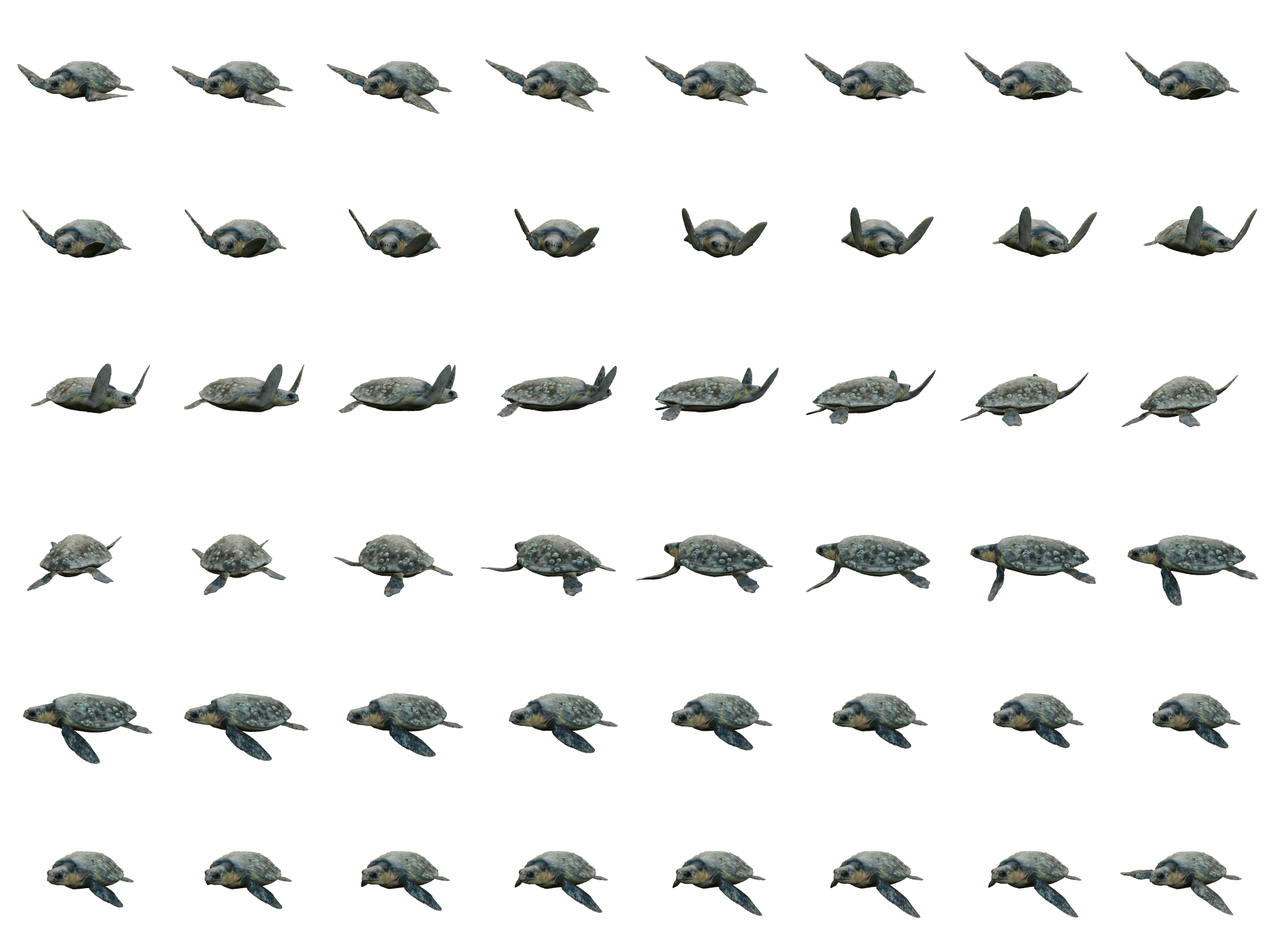
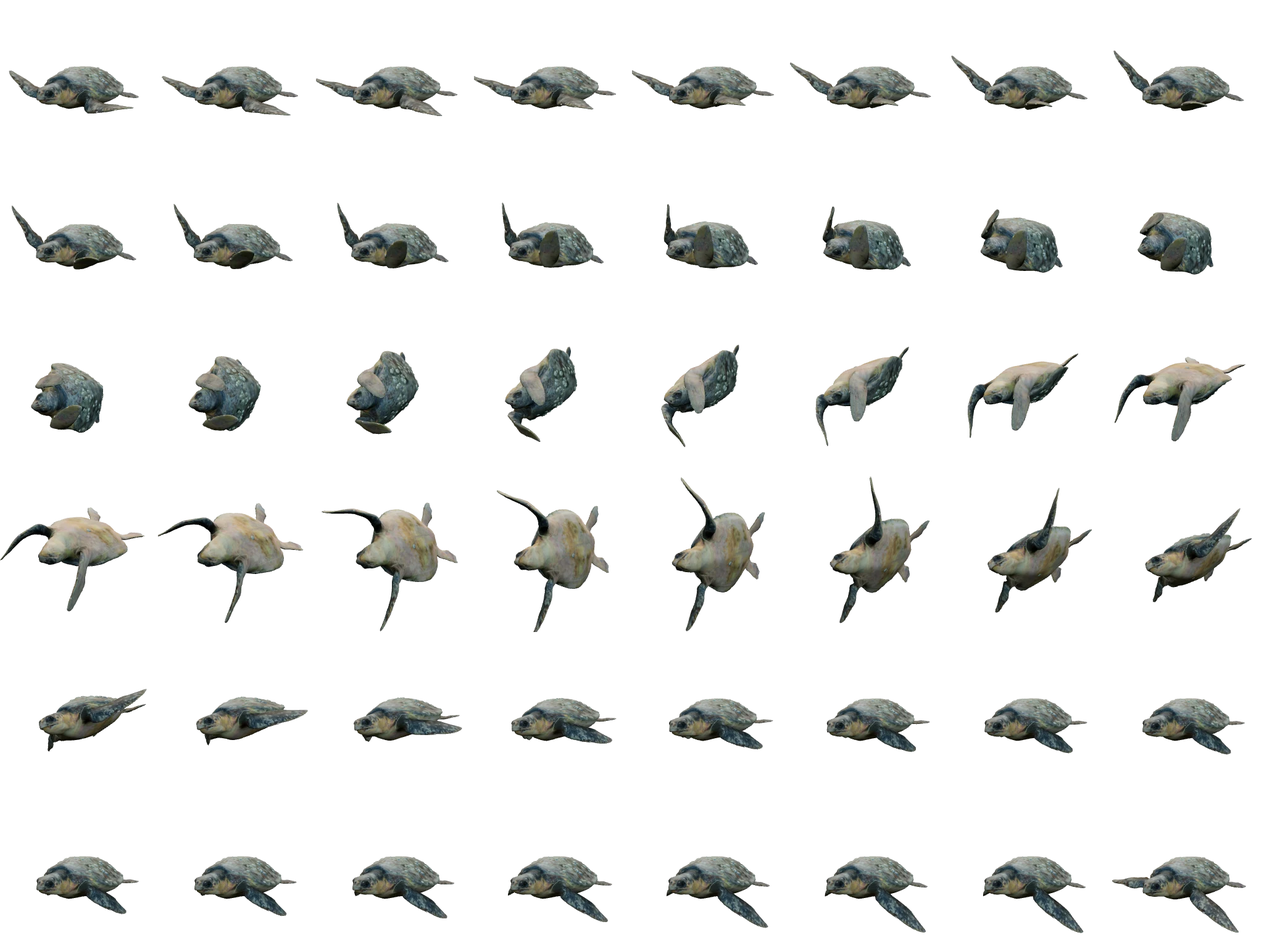
ud game

diff --git a/src/free-roam.js b/src/free-roam.js
@@ -1,3 +1,6 @@
+import {TURTLE_ACTIVITIES} from './turtle-activities.js';
+import {createOceanPlay} from './ocean-play.js';
+import {clampDepth} from './ocean-play-state.js';
 import {createJoystick} from './joystick.js';
 import {TURTLE_TURN_DURATION} from './turtle-turn.js';
 import * as T from 'three';
@@ -8,9 +11,10 @@ import {createTrexActions,ACTIONS} from './creatures/actions.js';
 import {loadMarine} from './marine.js';
 export function createFreeRoam(host){
  host.innerHTML='<div class="roam-canvas"></div><div class="roam-joystick"></div><div class="roam-actions"><button class="roam-action" aria-label="Thực hiện hành động"><span class="roam-action-icon" aria-hidden="true"></span><small></small><kbd>1</kbd></button></div><div class="roam-status" role="status">Đang chuẩn bị vùng khám phá…</div>';
- const joystick=createJoystick(host.querySelector('.roam-joystick')),actionButton=host.querySelector('.roam-action');let turnTime=-1;
- function fireAction(){if(!active)return;if(id==='trex')jump();else if(turnTime<0){turnTime=0;actions.play('turn360');}}
- actionButton.onclick=fireAction;
+ const joystick=createJoystick(host.querySelector('.roam-joystick')),actionButton=host.querySelector('.roam-action');let turnTime=-1,activity='',quest=null,depthStart=2,depthTarget=2;const actionKeys=['turn360','boost','dive','rise','eat'];
+ function fireAction(key='turn360'){if(!active)return;if(id==='trex'){jump();return;}if(turnTime>=0)return;activity=key;turnTime=0;depthStart=actor.position.y;depthTarget=clampDepth(depthStart+(key==='rise'?2:key==='dive'?-2:0));actions.play(key);if(key==='eat'&&quest?.canEat(actor.position)){const food=quest.foodPosition;actor.rotation.y=Math.atan2(food.x-actor.position.x,food.z-actor.position.z)+Math.PI;}}
+ actionButton.onclick=()=>fireAction();
+ function buttons(sea){host.querySelectorAll('.extra-action').forEach(b=>b.remove());actionButton.dataset.roamAction=sea?'turn360':'jump';if(!sea)return;const icons={boost:'»',dive:'↓',rise:'↑',eat:'🐚'};for(const [i,key]of actionKeys.entries()){if(!i)continue;const b=document.createElement('button');b.className='roam-action extra-action';b.dataset.roamAction=key;b.setAttribute('aria-label',TURTLE_ACTIVITIES[key].label);b.innerHTML=`<span class="roam-action-icon" aria-hidden="true">${icons[key]}</span><small>${TURTLE_ACTIVITIES[key].label}</small><kbd>${i+1}</kbd>`;b.onclick=()=>fireAction(key);host.querySelector('.roam-actions').append(b);}}
 
  const mount=host.querySelector('.roam-canvas'),status=host.querySelector('.roam-status');
  const renderer=new T.WebGLRenderer({antialias:true});renderer.setPixelRatio(Math.min(devicePixelRatio,1.5));renderer.toneMapping=T.ACESFilmicToneMapping;renderer.toneMappingExposure=1.1;mount.append(renderer.domElement);
@@ -28,19 +32,19 @@ export function createFreeRoam(host){
  scene.add(new T.HemisphereLight(0xe4fffa,0x435b38,2.6));const sun=new T.DirectionalLight(0xffedce,3);sun.position.set(15,30,12);scene.add(sun);
  function clear(){joystick.reset();keys.clear();pointers.clear();velocity.set(0,0);host.querySelectorAll('[data-direction]').forEach(b=>b.removeAttribute('data-held'));}
  const codes={KeyW:'up',ArrowUp:'up',KeyS:'down',ArrowDown:'down',KeyA:'left',ArrowLeft:'left',KeyD:'right',ArrowRight:'right'};
- function keydown(e){if(!active||e.target.closest?.('input,textarea,select'))return;if(e.code==='Digit1'||e.code==='Numpad1'){e.preventDefault();if(!e.repeat)fireAction();return;}if(!codes[e.code])return;e.preventDefault();keys.add(e.code);}
+ function keydown(e){if(!active||e.target.closest?.('input,textarea,select'))return;if(/^(Digit|Numpad)[1-5]$/.test(e.code)){e.preventDefault();const slot=Number(e.code.slice(-1))-1;if(!e.repeat&&(id==='loggerhead'||slot===0))fireAction(actionKeys[slot]);return;}if(!codes[e.code])return;e.preventDefault();keys.add(e.code);}
  function keyup(e){keys.delete(e.code);}
  addEventListener('keydown',keydown);addEventListener('keyup',keyup);addEventListener('blur',clear);const visibility=()=>{if(document.hidden)clear();};document.addEventListener('visibilitychange',visibility);
  for(const button of host.querySelectorAll('[data-direction]')){button.onpointerdown=e=>{e.preventDefault();button.setPointerCapture(e.pointerId);pointers.set(e.pointerId,button.dataset.direction);button.dataset.held='true';};const release=e=>{pointers.delete(e.pointerId);button.removeAttribute('data-held');};button.onpointerup=release;button.onpointercancel=release;button.onlostpointercapture=release;}
  function disposeModel(model){const geometries=new Set(),materials=new Set(),textures=new Set();model.traverse(n=>{if(n.geometry)geometries.add(n.geometry);for(const m of (Array.isArray(n.material)?n.material:[n.material]).filter(Boolean)){materials.add(m);Object.values(m).forEach(v=>{if(v?.isTexture)textures.add(v);});}});geometries.forEach(g=>g.dispose());materials.forEach(m=>m.dispose());textures.forEach(t=>t.dispose());}
  function disposeAnimal(){actions?.dispose();actions=null;if(animal){actor.remove(animal);disposeModel(animal);animal=null;}}
 
- async function load(next){const token=++serial;clear();active=false;status.hidden=false;status.textContent='Đang chuẩn bị vùng khám phá…';restorePose();disposeAnimal();actor.position.set(0,0,0);actor.rotation.set(0,0,0);actor.scale.setScalar(1);actor.updateMatrixWorld(true);jumpHeight=jumpVelocity=0;controls.enabled=false;world?.dispose();if(world)scene.remove(world.group);const sea=next==='loggerhead';world=createRoamWorld(sea);scene.add(world.group);scene.background=new T.Color(sea?0x176a86:0xa5cbd0);scene.fog=new T.Fog(sea?0x176a86:0xa5cbd0,sea?22:48,sea?88:135);id=next;turnTime=-1;actionButton.querySelector('.roam-action-icon').textContent=sea?'↻':'↟';actionButton.querySelector('small').textContent=sea?'Xoay một vòng':'Nhảy';actionButton.setAttribute('aria-label',sea?'Xoay một vòng':'Nhảy');
+ async function load(next){const token=++serial;clear();active=false;status.hidden=false;status.textContent='Đang chuẩn bị vùng khám phá…';restorePose();disposeAnimal();quest?.dispose();quest=null;actor.position.set(0,0,0);actor.rotation.set(0,0,0);actor.scale.setScalar(1);actor.updateMatrixWorld(true);jumpHeight=jumpVelocity=0;controls.enabled=false;world?.dispose();if(world)scene.remove(world.group);const sea=next==='loggerhead';world=createRoamWorld(sea);scene.add(world.group);scene.background=new T.Color(sea?0x176a86:0xa5cbd0);scene.fog=new T.Fog(sea?0x176a86:0xa5cbd0,sea?22:48,sea?88:135);id=next;turnTime=-1;activity='';buttons(sea);if(sea)quest=createOceanPlay(scene,host,camera);actionButton.querySelector('.roam-action-icon').innerHTML=sea?'<svg class="turtle-action-icon" viewBox="0 0 64 64" aria-hidden="true"><g fill="#ffd66b" stroke="#9c6826" stroke-width="1.5" stroke-linejoin="round"><path d="M22 23C10 13 3 18 9 27L21 33M42 23C54 13 61 18 55 27L43 33M23 43C12 43 10 52 16 52L26 47M41 43C52 43 54 52 48 52L38 47M29 48L32 57L35 48"/><ellipse cx="32" cy="14" rx="8" ry="10"/><ellipse cx="32" cy="34" rx="17" ry="20" fill="#ebba45"/><path d="M32 21L41 27V39L32 46L23 39V27Z" fill="#ffe18a"/><path d="M23 27L18 24M41 27L46 24M23 39L18 43M41 39L46 43M32 21V15M32 46V53" fill="none"/><circle cx="29" cy="10" r="1" fill="#44361c"/><circle cx="35" cy="10" r="1" fill="#44361c"/></g></svg>':'↟';actionButton.querySelector('small').textContent=sea?'Lộn một vòng':'Nhảy';actionButton.setAttribute('aria-label',sea?'Lộn một vòng':'Nhảy');
  let result;
  try{if(sea)result=await loadMarine(next);else{const response=await fetch('/assets/trex.json');if(!response.ok)throw Error('model');result={model:await createTrexModel({data:await response.json(),diffuse:'/assets/diffuse.jpeg',normal:'/assets/normal.jpeg'})};}
  if(token!==serial){result.createActions?.().dispose();disposeModel(result.model);return;}
  animal=result.model;actor.add(animal);actions=sea?result.createActions():createTrexActions(animal,ACTIONS);actions.play(sea?'clip0':'idle');restorePose();actions.setSpeed(sea?.35:1);actions.update(.001);animal.updateMatrixWorld(true);
- const box=new T.Box3().setFromObject(animal,true),size=box.getSize(new T.Vector3()),scale=(sea?4.5:8)/Math.max(size.x,size.y,size.z);actor.scale.setScalar(scale);actor.position.set(0,sea?2:-box.min.y*scale,0);actor.rotation.set(0,sea?0:Math.PI,0);moving=false;offset.set(0,sea?5:8,sea?11:15);target.copy(actor.position).add(new T.Vector3(0,sea?1:2.5,0));camera.position.copy(target).add(offset);camera.lookAt(target);controls.target.copy(target);controls.enabled=true;controls.update();followPosition.copy(actor.position);if(!sea)groundAnimal();status.hidden=true;active=true;resize();
+ const box=new T.Box3().setFromObject(animal,true),size=box.getSize(new T.Vector3()),scale=(sea?4.5:8)/Math.max(size.x,size.y,size.z);actor.scale.setScalar(scale);actor.position.set(0,sea?2:-box.min.y*scale,0);actor.rotation.set(0,sea?0:Math.PI,0);depthStart=depthTarget=2;moving=false;offset.set(0,sea?5:8,sea?11:15);target.copy(actor.position).add(new T.Vector3(0,sea?1:2.5,0));camera.position.copy(target).add(offset);camera.lookAt(target);controls.target.copy(target);controls.enabled=true;controls.update();followPosition.copy(actor.position);if(!sea)groundAnimal();status.hidden=true;active=true;resize();
  }catch(e){if(token!==serial)return;status.innerHTML='<button class="round" aria-label="Thử tải lại">↻</button>';status.querySelector('button').onclick=()=>load(next);console.error(e);}}
  function resize(){const w=mount.clientWidth,h=mount.clientHeight;if(!w||!h)return;renderer.setSize(w,h);camera.aspect=w/h;camera.updateProjectionMatrix();}const observer=new ResizeObserver(resize);observer.observe(mount);
  let last=performance.now();function frame(now){frameId=requestAnimationFrame(frame);const dt=Math.min((now-last)/1000,.04);last=now;if(!active||document.hidden||document.body.classList.contains('orientation-blocked')){clear();return;}
@@ -48,11 +52,14 @@ export function createFreeRoam(host){
  restorePose();
  if(walking!==moving){moving=walking;if(!sea)actions.play(moving?'walk':'idle');}
  actions.setSpeed(sea?(turnTime>=0?1:moving?1:.3):moving?Math.max(.3,velocity.length()):1);actions.update(dt);
- if(sea&&turnTime>=0){turnTime+=dt;if(turnTime>=TURTLE_TURN_DURATION){actions.play('clip0');turnTime=-1;}}actionButton.disabled=id==='trex'?jumpHeight>0:turnTime>=0;
- if(walking){const desired=Math.atan2(velocity.x,velocity.y)+(sea?Math.PI:0),delta=Math.atan2(Math.sin(desired-actor.rotation.y),Math.cos(desired-actor.rotation.y));actor.rotation.y+=delta*(1-Math.exp(-dt*8));moveWithinMap(actor.position,velocity.x*dt*(sea?7.5:6.375),velocity.y*dt*(sea?7.5:6.375),world.obstacles,sea?1.4:2);}
+ if(sea&&turnTime>=0){turnTime+=dt;const duration=activity==='turn360'?TURTLE_TURN_DURATION:TURTLE_ACTIVITIES[activity].duration;if(activity==='dive'||activity==='rise'){const p=Math.min(1,turnTime/duration);actor.position.y=depthStart+(depthTarget-depthStart)*p*p*(3-2*p);}if(turnTime>=duration){actions.play('clip0');turnTime=-1;activity='';}}
+ host.querySelectorAll('.roam-action').forEach(b=>{b.disabled=sea?turnTime>=0:jumpHeight>0;b.classList.toggle('playing',b.dataset.roamAction===activity);});
+ if((walking||activity==='boost')&&activity!=='eat'){const vx=walking?velocity.x:-Math.sin(actor.rotation.y),vz=walking?velocity.y:-Math.cos(actor.rotation.y);const desired=Math.atan2(vx,vz)+(sea?Math.PI:0),delta=Math.atan2(Math.sin(desired-actor.rotation.y),Math.cos(desired-actor.rotation.y));actor.rotation.y+=delta*(1-Math.exp(-dt*8));const boost=activity==='boost'?1+.6*Math.sin(Math.PI*Math.min(1,turnTime/3)):1;moveWithinMap(actor.position,vx*dt*(sea?7.5:6.375)*boost,vz*dt*(sea?7.5:6.375)*boost,world.obstacles,sea?1.4:2);}
+ quest?.update(dt,actor.position,activity==='boost',activity==='eat'&&turnTime>1.1);
+
  if(!sea){if(jumpVelocity!==0||jumpHeight>0){jumpHeight+=jumpVelocity*dt-7*dt*dt;jumpVelocity-=14*dt;if(jumpHeight<=0){jumpHeight=0;jumpVelocity=0;}}if(jumpHeight>0)tuckLegs();groundAnimal();}
  shadow.material.opacity=1/(1+jumpHeight*.4);
- shadow.position.set(actor.position.x,sea?-2.97:.03,actor.position.z);shadow.scale.set(sea?.65:1,sea?.65:1,1);followDelta.set(actor.position.x-followPosition.x,0,actor.position.z-followPosition.z);camera.position.add(followDelta);controls.target.add(followDelta);followPosition.copy(actor.position);controls.update();renderer.render(scene,camera);
+ shadow.position.set(actor.position.x,sea?-2.97:.03,actor.position.z);shadow.scale.set(sea?.65:1,sea?.65:1,1);followDelta.set(actor.position.x-followPosition.x,sea?actor.position.y-followPosition.y:0,actor.position.z-followPosition.z);camera.position.add(followDelta);controls.target.add(followDelta);followPosition.copy(actor.position);controls.update();renderer.render(scene,camera);
  }frameId=requestAnimationFrame(frame);
- return {load,setActive(value){active=value&&!!animal;controls.enabled=active;clear();if(!value){serial++;status.hidden=true;}},get state(){return {id,active,moving,turnTime,action:actions?.state.id,jumpHeight,groundY:animal?new T.Box3().setFromObject(animal,true).min.y:groundY,position:actor.position.toArray(),camera:camera.position.toArray(),obstacles:world?.obstacles};},dispose(){serial++;cancelAnimationFrame(frameId);controls.dispose();observer.disconnect();clear();disposeAnimal();world?.dispose();shadow.geometry.dispose();shadow.material.dispose();shadowTexture.dispose();renderer.dispose();removeEventListener('keydown',keydown);removeEventListener('keyup',keyup);removeEventListener('blur',clear);document.removeEventListener('visibilitychange',visibility);}};
+ return {load,setActive(value){active=value&&!!animal;controls.enabled=active;clear();if(!value){serial++;status.hidden=true;}},get state(){return {id,active,moving,turnTime,activity,quest:quest?.state,action:actions?.state.id,jumpHeight,groundY:animal?new T.Box3().setFromObject(animal,true).min.y:groundY,position:actor.position.toArray(),camera:camera.position.toArray(),obstacles:world?.obstacles};},dispose(){serial++;cancelAnimationFrame(frameId);controls.dispose();observer.disconnect();clear();disposeAnimal();quest?.dispose();world?.dispose();shadow.geometry.dispose();shadow.material.dispose();shadowTexture.dispose();renderer.dispose();removeEventListener('keydown',keydown);removeEventListener('keyup',keyup);removeEventListener('blur',clear);document.removeEventListener('visibilitychange',visibility);}};
 }

diff --git a/src/ocean-play.js b/src/ocean-play.js
@@ -1,0 +1,14 @@
+import * as T from 'three';
+import {createOceanProgress,OCEAN_GOALS} from './ocean-play-state.js';
+export function createOceanPlay(scene,host,camera){
+ const group=new T.Group();scene.add(group);const progress=createOceanProgress(),geometries=[],materials=[];
+ const panel=document.createElement('div');panel.className='ocean-goals';panel.innerHTML='<span class="goal-step" aria-label="Vòng bong bóng">◯ ◯ ◯</span><span class="goal-step" aria-label="Thức ăn">🐚</span><span class="goal-step" aria-label="Khám phá"><svg width="22" height="22" viewBox="0 0 24 24" aria-hidden="true"><path fill="currentColor" d="M2 22V11a10 10 0 0 1 20 0v11h-5V11a5 5 0 0 0-10 0v11Z"/></svg></span><button class="ocean-replay" aria-label="Chơi lại" hidden>↻</button><span class="goal-direction" aria-hidden="true"></span>';host.append(panel);
+ let audio=null,soundEnabled=true;const sound=document.createElement('button');sound.className='round ocean-sound';sound.setAttribute('aria-label','Tắt âm thanh trò chơi');sound.textContent='♪';host.append(sound);sound.onclick=()=>{soundEnabled=!soundEnabled;sound.setAttribute('aria-label',soundEnabled?'Tắt âm thanh trò chơi':'Bật âm thanh trò chơi');sound.setAttribute('aria-pressed',String(!soundEnabled));sound.textContent=soundEnabled?'♪':'♩';};
+ function chime(){if(!soundEnabled)return;try{const C=window.AudioContext||window.webkitAudioContext;audio??=new C();audio.resume().catch(()=>{});for(let i=0;i<3;i++){const oscillator=audio.createOscillator(),gain=audio.createGain(),start=audio.currentTime+i*.10;oscillator.type='sine';oscillator.frequency.value=[523,659,784][i];gain.gain.setValueAtTime(0,start);gain.gain.linearRampToValueAtTime(.06,start+.015);gain.gain.exponentialRampToValueAtTime(.001,start+.22);oscillator.connect(gain).connect(audio.destination);oscillator.start(start);oscillator.stop(start+.25);}}catch{}}
+ function mesh(geometry,color){geometries.push(geometry);const material=new T.MeshStandardMaterial({color,emissive:color,emissiveIntensity:.25,transparent:true,opacity:.85,roughness:.4});materials.push(material);return new T.Mesh(geometry,material);}
+ const markers=OCEAN_GOALS.map((goal,i)=>{const g=new T.Group();g.position.set(goal.position[0],goal.position[1]+1.6,goal.position[2]);group.add(g);if(goal.kind==='ring'){const ring=mesh(new T.TorusGeometry(2.6,.1,8,40),0x8cf6ed);g.add(ring);for(let n=0;n<10;n++){const bubble=mesh(new T.SphereGeometry(.15,6,4),0xcbfff8);bubble.position.set(Math.cos(n*Math.PI/5)*2.6,Math.sin(n*Math.PI/5)*2.6,0);g.add(bubble);}}else if(goal.kind==='food'){const shell=mesh(new T.SphereGeometry(.55,10,6),0xffc47b);shell.scale.set(1,.45,.9);g.add(shell);const halo=mesh(new T.TorusGeometry(.9,.045,6,24),0xffe8ac);halo.rotation.x=Math.PI/2;g.add(halo);}else{const gem=mesh(new T.OctahedronGeometry(.75),0xffe495);g.add(gem);}return g;});
+ const trail=[];for(let i=0;i<24;i++){const bubble=mesh(new T.SphereGeometry(.08+(i%3)*.025,5,4),0xb6ffff);bubble.visible=false;group.add(bubble);trail.push({mesh:bubble,life:0});}let spawn=0,time=0,celebrate=0;
+ function updatePanel(position){const n=progress.index,steps=panel.querySelectorAll('.goal-step');steps[0].textContent=[0,1,2].map(i=>i<n?'●':'◯').join(' ');steps[0].classList.toggle('done',n>=3);steps[1].classList.toggle('done',n>=4);steps[2].classList.toggle('done',n>=5);panel.querySelector('.ocean-replay').hidden=!progress.complete;const goal=progress.target;const dir=panel.querySelector('.goal-direction');if(goal){const dy=goal.position[1]-position.y;dir.textContent=Math.abs(dy)>1.3?(dy>0?'↑':'↓'):'➤';dir.style.transform=Math.abs(dy)>1.3?'none':`rotate(${Math.atan2(goal.position[2]-position.z,goal.position[0]-position.x)+Math.atan2(camera.position.x-position.x,camera.position.z-position.z)}rad)`;dir.title=Math.abs(dy)>1.3?(dy>0?'Nổi lên':'Lặn xuống'):'Hướng tới điểm tiếp theo';}else{dir.textContent='★';dir.style.transform='none';}}
+ panel.querySelector('.ocean-replay').onclick=()=>{progress.restart();celebrate=0;};
+ return {get state(){return {index:progress.index,round:progress.round,complete:progress.complete,target:progress.target};},canEat(position){const g=OCEAN_GOALS[3];return progress.index===3&&Math.hypot(position.x-g.position[0],position.z-g.position[2])<3&&Math.abs(position.y-g.position[1])<1.3;},foodPosition:new T.Vector3(...OCEAN_GOALS[3].position),update(dt,position,boost=false,eating=false){time+=dt;if(progress.advance(position,eating)){chime();celebrate=1.2;}celebrate=Math.max(0,celebrate-dt);markers.forEach((g,i)=>{g.visible=i>=progress.index;const active=i===progress.index;g.children.forEach(m=>{m.material.opacity=active?.95:.22;m.material.emissiveIntensity=active?.65:.1;});if(i>=3)g.rotation.y+=dt*.6;g.scale.setScalar(active?1+Math.sin(time*3)*.035:1);});panel.classList.toggle('celebrate',celebrate>0);updatePanel(position);if(boost){spawn+=dt;while(spawn>.065){spawn-=.065;const particle=trail.find(p=>p.life<=0);if(particle){particle.life=.9;particle.mesh.visible=true;particle.mesh.position.copy(position).add(new T.Vector3((Math.random()-.5)*.6,1.5,0));}}}for(const p of trail)if(p.life>0){p.life-=dt;p.mesh.position.y+=dt*.5;p.mesh.material.opacity=Math.max(0,p.life);p.mesh.visible=p.life>0;}},dispose(){group.removeFromParent();geometries.forEach(g=>g.dispose());materials.forEach(m=>m.dispose());panel.remove();sound.remove();audio?.close().catch(()=>{});}};
+}

diff --git a/src/turtle-turn.js b/src/turtle-turn.js
@@ -4,17 +4,29 @@ const smooth=x=>{x=Math.max(0,Math.min(1,x));return x*x*x*(x*(x*6-15)+10);};
 const pulse=(t,a,b)=>t<=a||t>=b?0:Math.sin(Math.PI*(t-a)/(b-a))**2;
 export function createTurtleTurnActions(base,root){
  const bones={};root.traverse(n=>{if(n.isBone)bones[n.name]=n;});
- let turning=false,time=0,pose=[],origin=null,entry=[];
+ let turning=false,time=0,pose=[],origin=null,originPosition=null,entry=[];
+ const pivot=new Vector3(),shift=new Vector3();
  const axis=new Vector3(),parentQ=new Quaternion(),rootQ=new Quaternion(),q=new Quaternion();
- function restore(){for(const [bone,rotation]of pose)bone.quaternion.copy(rotation);pose=[];if(origin){root.quaternion.copy(origin);origin=null;}}
+ function restore(){for(const [bone,rotation]of pose)bone.quaternion.copy(rotation);pose=[];if(origin){root.quaternion.copy(origin);root.position.copy(originPosition);origin=null;}}
  function rotate(name,x,y,z){const bone=bones[name];if(!bone)return;pose.push([bone,bone.quaternion.clone()]);const angle=Math.hypot(x,y,z);if(!angle)return;root.getWorldQuaternion(rootQ);bone.parent.getWorldQuaternion(parentQ);axis.set(x,y,z).divideScalar(angle).applyQuaternion(rootQ).applyQuaternion(parentQ.invert());q.setFromAxisAngle(axis,angle);bone.quaternion.premultiply(q);bone.updateWorldMatrix(false,true);}
  function apply(t){
-  origin=root.quaternion.clone();const envelope=smooth(t/.45)*(1-smooth((t-3.35)/.85)),drive=pulse(t,.45,1.55)+pulse(t,1.65,2.85),brake=pulse(t,3,3.9);
-  root.rotateY(2*Math.PI*smooth((t-.4)/3.35));root.rotateZ(.11*envelope);root.updateWorldMatrix(true,true);
-  rotate('head002',-.035*envelope,.24*pulse(t,0,3.6),0);rotate('head001',0,.09*pulse(t,.15,3.65),0);
-  rotate('flipper-left001',0,-.22*drive,.24*drive-.10*brake);rotate('flipper-left002',0,.09*drive,.10*pulse(t,.65,3));
-  rotate('flipper-right001',0,.12*drive,-.12*drive+.18*brake);rotate('flipper-right002',0,-.05*drive,-.08*pulse(t,.85,3.2));
-  rotate('hind-left001',0,.16*envelope,.09*brake);rotate('hind-right001',0,.13*envelope,-.12*brake);rotate('tail001',0,.10*pulse(t,.6,3.85),0);
+  origin=root.quaternion.clone();originPosition=root.position.clone();root.updateWorldMatrix(true,true);
+  // Roll around the shell center, not the root below the swimming model.
+  bones.Main.getWorldPosition(pivot);root.worldToLocal(pivot);
+  const prepare=pulse(t,0,.8),drive=pulse(t,.3,1.25),tuck=smooth((t-.75)/.55)*(1-smooth((t-2.85)/.55)),brake=pulse(t,2.9,4.15);
+  root.rotateZ(-.09*prepare+2*Math.PI*smooth((t-.5)/3.15));
+  shift.copy(pivot).multiply(root.scale).applyQuaternion(origin);root.position.add(shift);
+  shift.copy(pivot).multiply(root.scale).applyQuaternion(root.quaternion);root.position.sub(shift);root.updateWorldMatrix(true,true);
+  // Asymmetric front-flipper stroke initiates roll; tuck reduces drag,
+  // rear flippers counter-steer and both fronts open to brake the roll.
+  rotate('head002',.09*tuck,0,-.06*drive+.04*brake);rotate('head001',-.035*tuck,0,-.025*drive);
+  rotate('flipper-left001',0,-.15*tuck,.30*drive-.20*tuck-.17*brake);
+  rotate('flipper-right001',0,.15*tuck,.23*drive+.20*tuck+.17*brake);
+  rotate('flipper-left002',0,.06*tuck,-.13*tuck+.08*brake);
+  rotate('flipper-right002',0,-.06*tuck,.13*tuck-.08*brake);
+  rotate('hind-left001',0,.05*tuck,.12*drive-.13*brake);
+  rotate('hind-right001',0,-.05*tuck,.08*drive-.10*brake);
+  rotate('tail001',0,0,-.07*pulse(t,.65,3.7));
  }
  return {...base,play(key){restore();turning=key==='turn360';entry=turning?Object.values(bones).map(b=>[b,b.quaternion.clone()]):[];time=0;return base.play(turning?'clip0':key);},get state(){return {...base.state,id:turning?'turn360':base.state.id};},update(dt){if(base.state.paused)return;restore();base.update(turning?dt*(3.5/TURTLE_TURN_DURATION):dt);if(turning){time=(time+Math.min(dt,.05)*base.state.speed)%TURTLE_TURN_DURATION;if(entry.length){const blend=smooth(time/.35);for(const [bone,rotation]of entry)bone.quaternion.slerpQuaternions(rotation,bone.quaternion.clone(),blend);if(blend===1)entry=[];}apply(time);}},get progress(){return turning?time/TURTLE_TURN_DURATION:base.progress;},dispose(){restore();base.dispose();}};
 }

diff --git a/src/turtle-activities.js b/src/turtle-activities.js
@@ -1,0 +1,25 @@
+import {Quaternion,Vector3} from 'three';
+export const TURTLE_ACTIVITIES={boost:{duration:3,label:'Tăng tốc'},dive:{duration:1.6,label:'Lặn'},rise:{duration:1.6,label:'Nổi'},eat:{duration:2.4,label:'Ăn'}};
+const smooth=x=>{x=Math.max(0,Math.min(1,x));return x*x*(3-2*x);};
+export function createTurtleActivities(base,root){
+ const bones={};root.traverse(n=>{if(n.isBone)bones[n.name]=n;});let key='',time=0,pose=[],orientation=null,position=null,entry=[];
+ const axis=new Vector3(),parentQ=new Quaternion(),rootQ=new Quaternion(),delta=new Quaternion(),pivot=new Vector3(),shift=new Vector3();
+ function restore(){pose.forEach(([b,q])=>b.quaternion.copy(q));pose=[];if(orientation){root.quaternion.copy(orientation);root.position.copy(position);orientation=null;}}
+ function rotate(name,x,y,z){const b=bones[name];if(!b)return;pose.push([b,b.quaternion.clone()]);const angle=Math.hypot(x,y,z);if(!angle)return;root.getWorldQuaternion(rootQ);b.parent.getWorldQuaternion(parentQ);axis.set(x,y,z).divideScalar(angle).applyQuaternion(rootQ).applyQuaternion(parentQ.invert());b.quaternion.premultiply(delta.setFromAxisAngle(axis,angle));b.updateWorldMatrix(false,true);}
+ function apply(){const p=time/TURTLE_ACTIVITIES[key].duration,e=smooth(p/.2)*(1-smooth((p-.72)/.28));orientation=root.quaternion.clone();position=root.position.clone();root.updateWorldMatrix(true,true);bones.Main.getWorldPosition(pivot);root.worldToLocal(pivot);
+  const pitch=key==='dive'?-.32*e:key==='rise'?.32*e:key==='boost'?-.055*e:-.1*e;root.rotateX(pitch);
+  shift.copy(pivot).multiply(root.scale).applyQuaternion(orientation);root.position.add(shift);shift.copy(pivot).multiply(root.scale).applyQuaternion(root.quaternion);root.position.sub(shift);root.updateWorldMatrix(true,true);
+  if(key==='eat'){
+   const reach=smooth(p/.38)*(1-smooth((p-.65)/.35));const peck=Math.sin(Math.PI*Math.max(0,Math.min(1,(p-.35)/.32)))*e;
+   rotate('Spine001',-.07*reach,0,0);rotate('head002',-.18*reach+.10*peck,0,0);rotate('head001',-.10*reach+.13*peck,0,0);
+   rotate('flipper-left001',0,.09*e,-.12*e);rotate('flipper-right001',0,-.09*e,.12*e);rotate('hind-left001',.07*e,0,0);rotate('hind-right001',.07*e,0,0);
+  }else{
+   const thrust=key==='boost'?.18: .10;
+   rotate('head002',-pitch*.35,0,0);rotate('head001',-pitch*.15,0,0);
+   rotate('flipper-left001',-.05*e,-thrust*e,-.12*e);rotate('flipper-right001',-.05*e,thrust*e,.12*e);
+   rotate('flipper-left002',0,.06*e,-.06*e);rotate('flipper-right002',0,-.06*e,.06*e);
+   rotate('hind-left001',pitch*.35,0,-.06*e);rotate('hind-right001',pitch*.35,0,.06*e);rotate('tail001',pitch*.15,0,0);
+  }
+ }
+ return {...base,get state(){return {...base.state,id:key||base.state.id};},play(next){restore();key=TURTLE_ACTIVITIES[next]?next:'';entry=key?Object.values(bones).map(b=>[b,b.quaternion.clone()]):[];time=0;return base.play(key?'clip0':next);},update(dt){if(base.state.paused)return;restore();const duration=TURTLE_ACTIVITIES[key]?.duration;const phase=duration?time/duration:0;const envelope=smooth(phase/.2)*(1-smooth((phase-.72)/.28));base.update(dt*(key==='boost'?1+1.3*envelope:key==='eat'?.4:1));if(key){time=(time+Math.min(dt,.05)*base.state.speed)%duration;if(entry.length){const blend=smooth(time/.25);for(const [bone,q]of entry)bone.quaternion.slerpQuaternions(q,bone.quaternion.clone(),blend);if(blend>=1)entry=[];}apply();}},get progress(){return key?time/TURTLE_ACTIVITIES[key].duration:base.progress;},dispose(){restore();base.dispose();}};
+}

diff --git a/src/marine.js b/src/marine.js
@@ -1,3 +1,4 @@
+import {createTurtleActivities,TURTLE_ACTIVITIES} from './turtle-activities.js';
 import {createTurtleTurnActions} from './turtle-turn.js';
 import * as T from 'three';
 import {GLTFLoader} from 'three/addons/loaders/GLTFLoader.js';
@@ -34,7 +35,8 @@ export async function loadMarine(id){
  const root=new T.Group(),visual=new T.Group();root.add(visual);visual.add(source);visual.scale.setScalar(scale);visual.position.set(-center.x*scale,-box.min.y*scale+(spec.bottom?0:1),-center.z*scale);
  mixer.stopAllAction();const animations={},definitions={};clips.forEach((clip,i)=>{const k='clip'+i;animations[k]=clip;definitions[k]=[k,(id==='slug'?(/move/i.test(clip.name)?'Di chuyển':/pose/i.test(clip.name)?'Tư thế gốc':'Nghỉ'):'Bơi')+(clips.length>1?' '+(i+1):''), 'Animation gốc',true];});
  if(!clips.length){const k='drift';animations[k]=new T.AnimationClip(k,6,[]);definitions[k]=[k,spec.bottom?'Quan sát':'Lướt trong nước','Chuyển động trình diễn; model chưa có animation khớp.',true];}
- if(id==='loggerhead')definitions.turn360=[null,'Xoay một vòng','Nhìn dẫn hướng, vây tạo lực xoay, hãm và trở lại bơi.',true];
+ if(id==='loggerhead')definitions.turn360=[null,'Lộn một vòng','Lăn quanh trục đầu–đuôi; vây tạo lực, thu gọn rồi mở ra hãm.',true];
  root.userData.sculptRuntime={source,animations,nodes:{},meshes:{}};
- return {model:root,definitions,createActions(){let key=Object.keys(definitions)[0],time=0;const state={paused:true,speed:1,id:key};function play(k){if(!definitions[k])return false;mixer.stopAllAction();key=k;time=0;root.position.set(0,0,0);root.rotation.set(0,0,0);mixer.clipAction(animations[k]).reset().setLoop(T.LoopRepeat,Infinity).play();mixer.update(.001);source.updateMatrixWorld(true);source.traverse(o=>o.skeleton?.update());state.paused=false;state.id=k;return true;}const baseActions={state,mixer,play,update(dt){if(state.paused)return;time+=dt*state.speed;mixer.update(dt*state.speed);if(!clips.length&&!spec.bottom){root.position.y=.08*Math.sin(time*1.4);root.rotation.y=.06*Math.sin(time*.7);}},pause(){state.paused=!state.paused;},setSpeed(s){state.speed=s;},get progress(){return time/animations[key].duration%1;},dispose(){mixer.stopAllAction();}};return id==='loggerhead'?createTurtleTurnActions(baseActions,root):baseActions;}};
+ if(id==='loggerhead')for(const [key,value] of Object.entries(TURTLE_ACTIVITIES))definitions[key]=[null,value.label,'',true];
+ return {model:root,definitions,createActions(){let key=Object.keys(definitions)[0],time=0;const state={paused:true,speed:1,id:key};function play(k){if(!definitions[k])return false;mixer.stopAllAction();key=k;time=0;root.position.set(0,0,0);root.rotation.set(0,0,0);mixer.clipAction(animations[k]).reset().setLoop(T.LoopRepeat,Infinity).play();mixer.update(.001);source.updateMatrixWorld(true);source.traverse(o=>o.skeleton?.update());state.paused=false;state.id=k;return true;}const baseActions={state,mixer,play,update(dt){if(state.paused)return;time+=dt*state.speed;mixer.update(dt*state.speed);if(!clips.length&&!spec.bottom){root.position.y=.08*Math.sin(time*1.4);root.rotation.y=.06*Math.sin(time*.7);}},pause(){state.paused=!state.paused;},setSpeed(s){state.speed=s;},get progress(){return time/animations[key].duration%1;},dispose(){mixer.stopAllAction();}};return id==='loggerhead'?createTurtleActivities(createTurtleTurnActions(baseActions,root),root):baseActions;}};
 }

diff --git a/src/mobile.css b/src/mobile.css
@@ -234,3 +234,12 @@ body[data-screen=map] #island img{-webkit-user-drag:none}
 .roam-actions{position:absolute;bottom:24px;right:80px;z-index:5;display:flex;gap:12px}.roam-action{position:relative;display:grid;place-items:center;gap:1px;min-width:78px;padding:8px 14px;border:1px solid #fff9;border-radius:22px;background:#17454acc;color:#fff;cursor:pointer;touch-action:manipulation}.roam-action-icon{font-size:32px;line-height:1}.roam-action small{font-size:11px}.roam-action kbd{position:absolute;top:-8px;right:-7px;border-radius:50%;background:#f3dd98;color:#243c38;width:24px;height:24px;display:grid;place-items:center}.roam-action:disabled{opacity:.6}
 @media(pointer:coarse){.roam-joystick{display:block}.roam-action kbd{display:none}.roam-actions{bottom:24px;right:76px}}
 @media(max-height:350px){.roam-joystick{bottom:10px;left:14px}.roam-actions{bottom:14px}}
+
+.turtle-action-icon{display:block;width:48px;height:48px;filter:drop-shadow(0 2px 3px #001e2870)}
+.roam-action kbd{position:static;grid-row:3;width:22px;height:22px;margin-top:3px;font-size:12px}
+
+/* Ocean exploration: compact controls leave the centre available for orbiting. */
+.ocean-goals{position:absolute;top:max(12px,env(safe-area-inset-top));left:50%;transform:translateX(-50%);display:flex;align-items:center;gap:14px;padding:8px 15px;border:1px solid #a2e8df66;border-radius:24px;background:#073d4bcc;color:#c4ece9;pointer-events:auto;font-size:22px}
+.goal-step.done{color:#ffe489;filter:drop-shadow(0 0 5px #ffd45e)}
+.ocean-goals.celebrate{box-shadow:0 0 24px #a0ffee88}.ocean-replay{border:0;background:transparent;color:#ffe489;font-size:26px;cursor:pointer}.ocean-replay[hidden]{display:none}.goal-direction{display:inline-block;color:#ffdf85}.ocean-sound{position:absolute;right:24px;top:20px}.roam-action.playing{box-shadow:0 0 16px #ffdb79}.roam-action:disabled{opacity:.65}.roam-action.playing:disabled{opacity:1}
+@media(pointer:coarse){.roam-actions{right:max(65px,env(safe-area-inset-right));bottom:max(12px,env(safe-area-inset-bottom));gap:5px}.roam-action{min-width:48px;padding:5px 7px;border-radius:15px}.roam-action-icon{font-size:26px}.roam-action .turtle-action-icon{width:32px;height:32px}.roam-action small{font-size:9px}.ocean-goals{top:8px;font-size:17px;gap:10px;padding:5px 12px}.ocean-sound{right:14px;top:12px}}

diff --git a/src/scene.js b/src/scene.js
@@ -1,3 +1,4 @@
+import {TURTLE_ACTIVITIES} from './turtle-activities.js';
 import {viewDirection} from './creatures/view-directions.js';
 import {marine,loadMarine} from './marine.js';
 import * as T from 'three';
@@ -57,7 +58,7 @@ export function createHabitat(host){
  async function captureAction(key,{resolution=256,frames=48,columns=8,closeup=false}={}){
   active=false;entrance.cancel();floor.visible=false;ring.visible=false;renderer.setPixelRatio(1);renderer.setSize(resolution,resolution);camera.aspect=1;camera.clearViewOffset();camera.updateProjectionMatrix();
   const animation=root.userData.sculptRuntime.animations[definitions[key]?.[0]];
-  const duration=key==='turn360'?4.2:key==='hunt'?10:key==='roarSweep'?ROAR_SWEEP_DURATION:CUSTOM[key]?.duration||animation?.duration||6;
+  const duration=TURTLE_ACTIVITIES[key]?TURTLE_ACTIVITIES[key].duration:key==='turn360'?4.2:key==='hunt'?10:key==='roarSweep'?ROAR_SWEEP_DURATION:CUSTOM[key]?.duration||animation?.duration||6;
   const step=duration/1.25/frames;
   function advance(){let left=step;while(left>0){const dt=Math.min(.025,left);actions.update(dt);left-=dt;}root.updateMatrixWorld(true);root.traverse(n=>n.skeleton?.update());}
   const box=new T.Box3();actions.mixer.stopAllAction();actions.play(key);

diff --git a/src/roam-world.js b/src/roam-world.js
@@ -12,7 +12,7 @@ export function createRoamWorld(sea){
  obstacles.push({x,z,r:r*.85});
  }
  for(let i=0;i<44;i++){const a=i/44*Math.PI*2;rock(Math.sin(a)*61,Math.cos(a)*61,5+random()*4,true);}
- for(let i=0;i<38;i++){const x=(random()-.5)*108,z=(random()-.5)*108;if(Math.hypot(x,z)<12||Math.abs(x-Math.sin(z/4.8*.36)*13)<9)continue;
+ for(let i=0;i<38;i++){const x=(random()-.5)*108,z=(random()-.5)*108;if((sea&&Math.abs(x)<8&&z>-40&&z<5)||Math.hypot(x,z)<12||Math.abs(x-Math.sin(z/4.8*.36)*13)<9)continue;
  if(sea){rock(x,z,1.8+random()*2);for(let j=0;j<4;j++){const height=1.6+random()*3;mesh(new T.ConeGeometry(.6, height,5),[0xe29679,0xb397d1,0x69bda2][i%3],x+j*.7-1,-3+height/2,z+random()*2);}}
  else if(i%3===0)rock(x,z,2+random()*2);else{const h=5+random()*4;mesh(new T.CylinderGeometry(.35,.6,h,5),0x71553d,x,h/2,z);mesh(new T.ConeGeometry(3.5,h*.85,6),i%2?0x315f40:0x467b46,x,h*.9,z);mesh(new T.ConeGeometry(2.5,h*.65,6),0x63954d,x,h*1.25,z);obstacles.push({x,z,r:1.1});}
  }

diff --git a/src/ocean-play-state.js b/src/ocean-play-state.js
@@ -1,0 +1,3 @@
+export const OCEAN_GOALS=[{kind:'ring',position:[0,2,-8]},{kind:'ring',position:[0,0,-16]},{kind:'ring',position:[0,4,-24]},{kind:'food',position:[3,0,-29]},{kind:'explore',position:[0,2,-34]}];
+export const clampDepth=y=>Math.max(0,Math.min(6,y));
+export function createOceanProgress(){let index=0,round=1;return {get index(){return index;},get round(){return round;},get target(){return OCEAN_GOALS[index];},get complete(){return index===OCEAN_GOALS.length;},advance(position,eating=false){const goal=OCEAN_GOALS[index];if(!goal)return false;const [x,y,z]=goal.position;if(Math.hypot(position.x-x,position.z-z)> (goal.kind==='ring'?2:3)||Math.abs(position.y-y)>1.3)return false;if(goal.kind==='food'&&!eating)return false;index++;return true;},restart(){index=0;round++;}};}

diff --git a/src/action-lessons.js b/src/action-lessons.js
@@ -1,5 +1,9 @@
 // Each runtime action gets its own lesson; no clip is silently omitted.
 const vocabulary=[
+ [/^boost$/i,'Speed up','Tăng tốc','swims faster','bơi nhanh hơn'],
+ [/^dive$/i,'Dive','Lặn','dives deeper','lặn xuống sâu hơn'],
+ [/^rise$/i,'Swim up','Nổi lên','swims upward','bơi lên cao hơn'],
+ [/^eat$/i,'Eat','Ăn','reaches for food','vươn đầu lấy thức ăn'],
  [/t.?pose/i,'Stand still','Đứng yên','stands still','đứng yên'],
  [/soar/i,'Soar','Sải cánh','soars above the ground','sải cánh trên cao'],
  [/roarSweep/i,'Roar and whip','Gầm và quét đuôi','roars and whips its tail','gầm và quét đuôi'],

diff --git a/src/preview-framing.js b/src/preview-framing.js
@@ -90,17 +90,41 @@ export const previewBounds={
   1,
   0.8046875
  ],
+ "loggerhead-boost": [
+  0,
+  0.30859375,
+  0.90625,
+  0.828125
+ ],
  "loggerhead-clip0": [
   0,
   0.265625,
   0.8984375,
   0.85546875
  ],
+ "loggerhead-dive": [
+  0,
+  0.31640625,
+  0.88671875,
+  0.859375
+ ],
+ "loggerhead-eat": [
+  0,
+  0.33984375,
+  0.87109375,
+  0.83203125
+ ],
+ "loggerhead-rise": [
+  0,
+  0.1484375,
+  0.87109375,
+  0.796875
+ ],
  "loggerhead-turn360": [
-  0.0234375,
-  0.30078125,
-  0.96484375,
-  0.8359375
+  0,
+  0.015625,
+  0.94921875,
+  1
  ],
  "mosa-bankTurn": [
   0.07421875,
